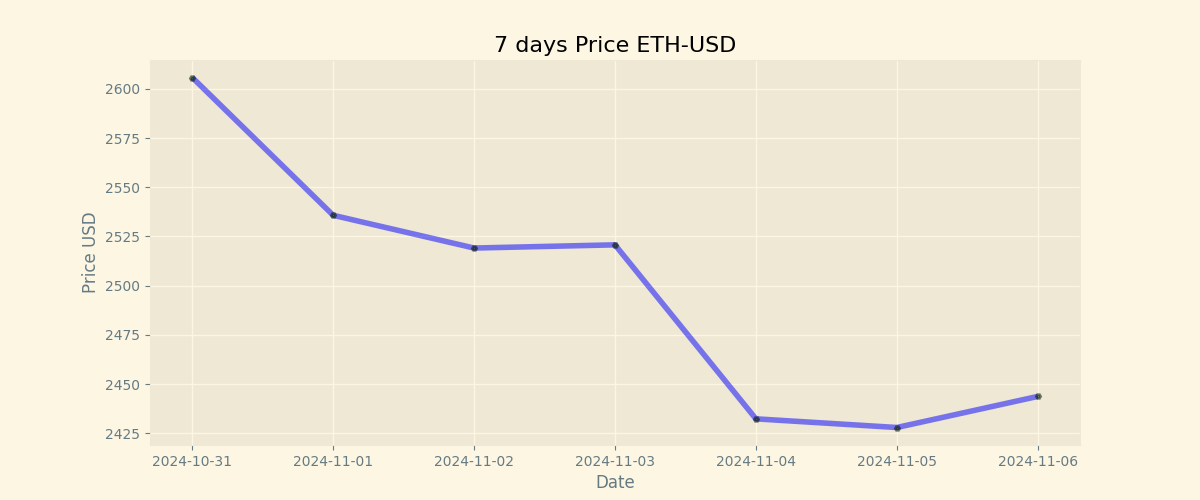
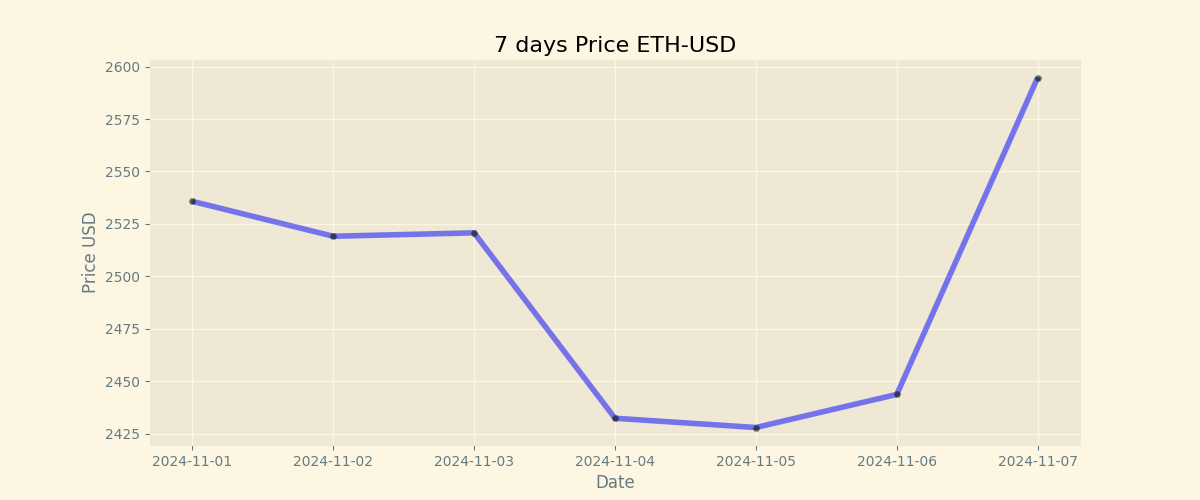
Duty Updates 2024-11-07

diff --git a/README.md b/README.md
@@ -9,8 +9,8 @@
 
 | Currency | Price           |
 | -------- | --------------- |
-| **BTC**  | **$ 68890.54** |
-| **ETH**  | **$ 2443.7** |
+| **BTC**  | **$ 74599.22** |
+| **ETH**  | **$ 2594.79** |
 
 ## BTC chart
 
